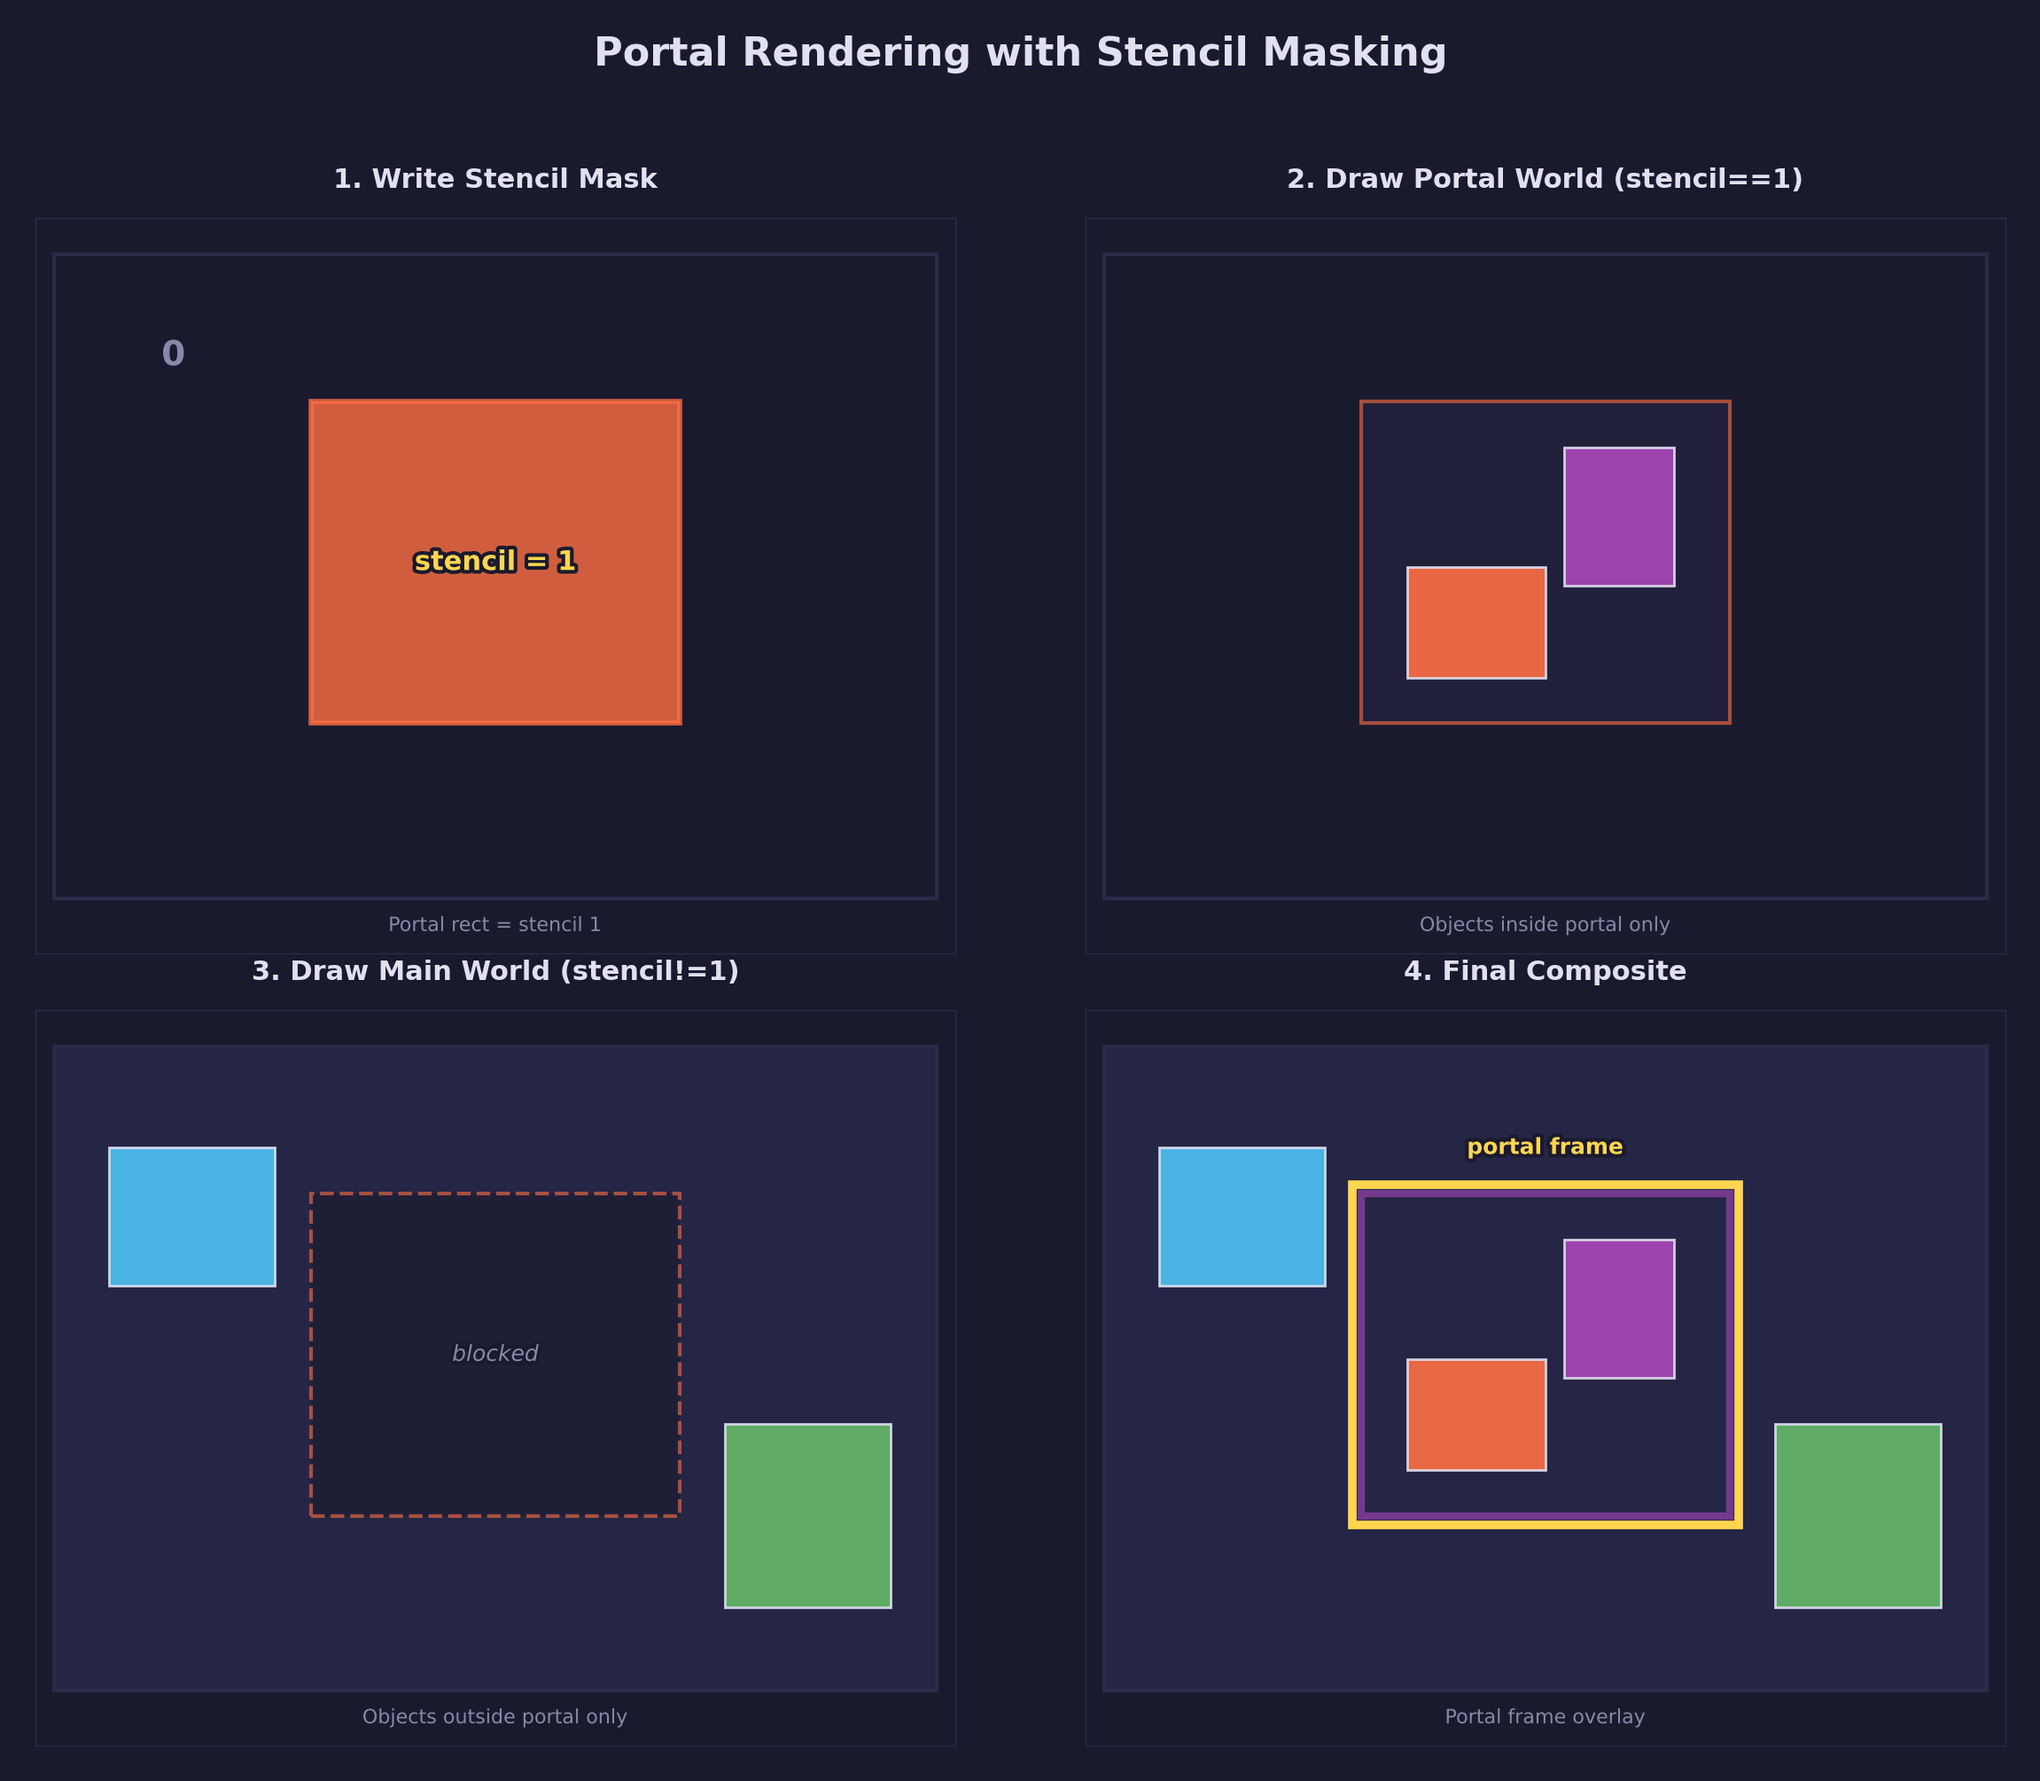
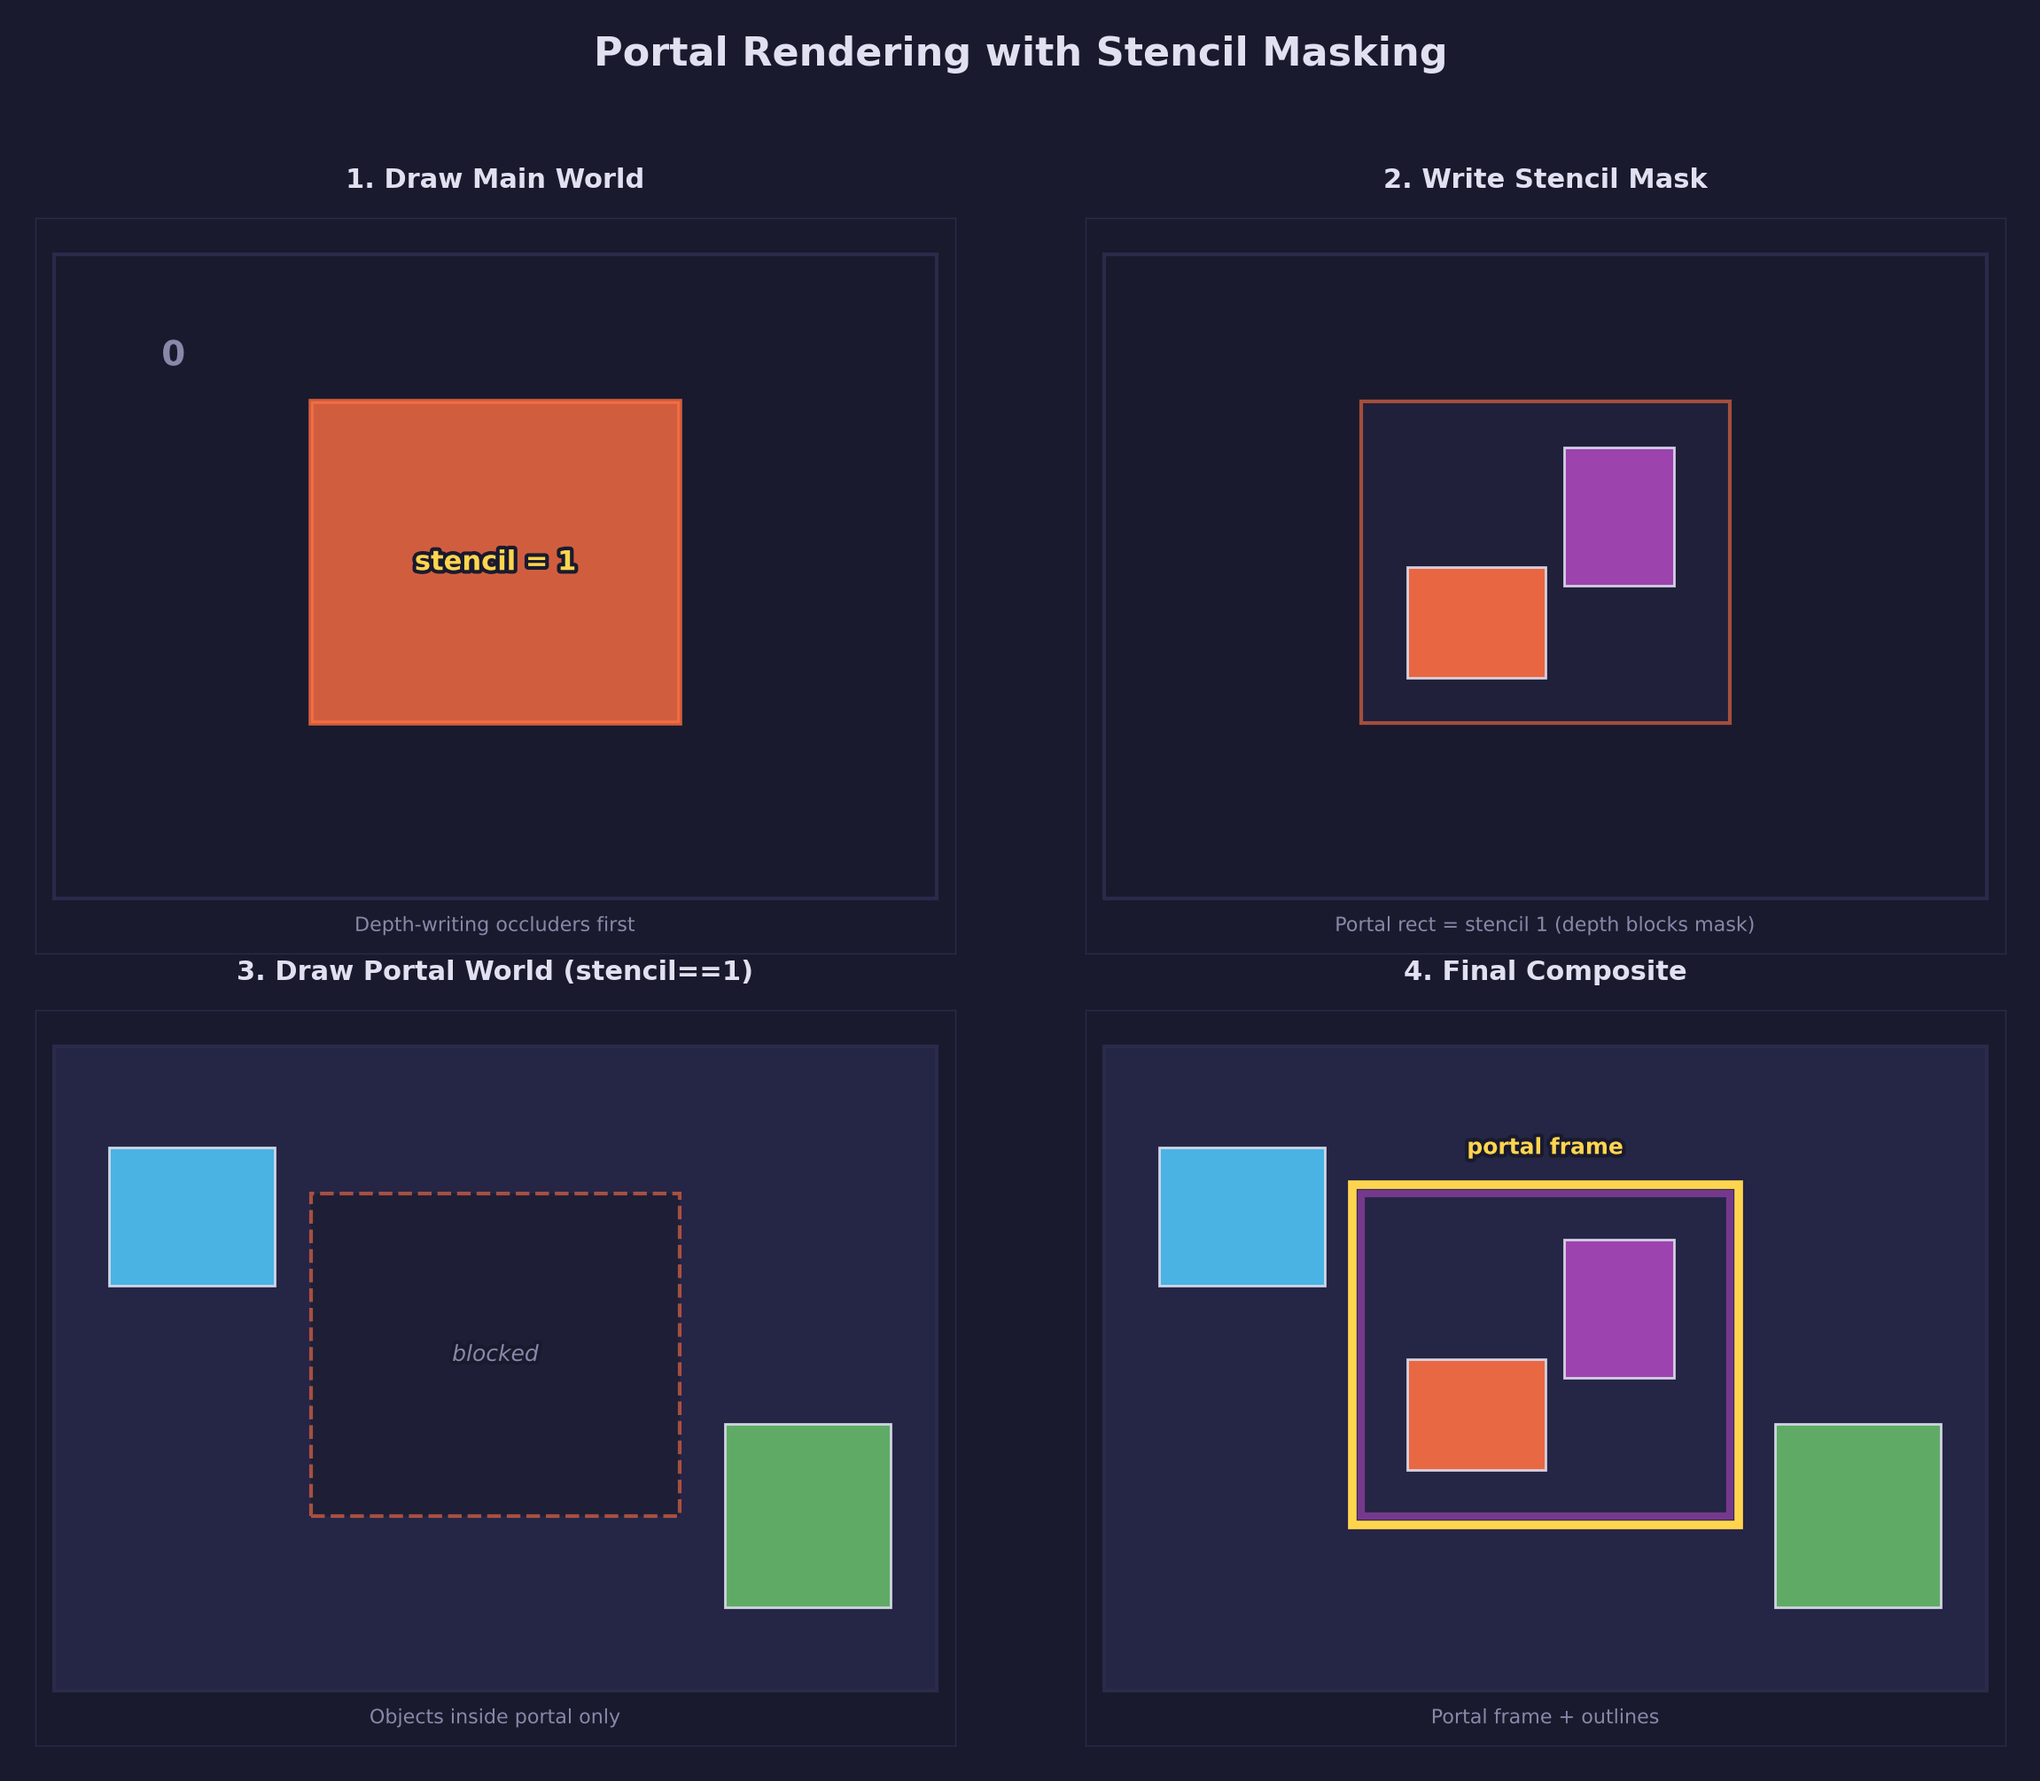
Address PR feedback: PLAN.md phase order, struct size, diagram text, README logical model
- Reorder PLAN.md Pass 2 phases: main world first, then mask (matches main.c)
- Fix SceneFragUniforms size comment: 80 → 88 bytes
- Update stencil buffer concept diagram docstring/footer for format probing
- Fix portal technique diagram panel labels to show correct draw order
- Clarify README stencil pipeline as logical model, not guaranteed HW order

diff --git a/scripts/forge_diagrams/gpu_diagrams.py b/scripts/forge_diagrams/gpu_diagrams.py
@@ -15951,7 +15951,7 @@ def diagram_binding_comparison():
 
 
 def diagram_stencil_buffer_concept():
-    """Three framebuffer attachments: Color, Depth, Stencil with D24S8 packing."""
+    """Three framebuffer attachments: color, depth, and stencil in a shared depth-stencil texture."""
     fig, axes = plt.subplots(1, 3, figsize=(14, 5), facecolor=STYLE["bg"])
     stroke = [pe.withStroke(linewidth=3, foreground=STYLE["bg"])]
 
@@ -16147,8 +16147,8 @@ def diagram_stencil_buffer_concept():
     fig.text(
         0.65,
         0.02,
-        "Depth + Stencil share one texture: D24_UNORM_S8_UINT  "
-        "(24-bit depth + 8-bit stencil)",
+        "Depth + Stencil share one texture: D24_UNORM_S8_UINT or "
+        "D32_FLOAT_S8_UINT (platform-dependent depth + 8-bit stencil)",
         color=STYLE["warn"],
         fontsize=10,
         fontweight="bold",
@@ -16330,10 +16330,10 @@ def diagram_portal_technique():
     stroke = [pe.withStroke(linewidth=3, foreground=STYLE["bg"])]
 
     panel_info = [
-        ("1. Write Stencil Mask", "Portal rect = stencil 1"),
-        ("2. Draw Portal World (stencil==1)", "Objects inside portal only"),
-        ("3. Draw Main World (stencil!=1)", "Objects outside portal only"),
-        ("4. Final Composite", "Portal frame overlay"),
+        ("1. Draw Main World", "Depth-writing occluders first"),
+        ("2. Write Stencil Mask", "Portal rect = stencil 1 (depth blocks mask)"),
+        ("3. Draw Portal World (stencil==1)", "Objects inside portal only"),
+        ("4. Final Composite", "Portal frame + outlines"),
     ]
 
     for idx, ax in enumerate(axes.flat):

diff --git a/lessons/gpu/34-stencil-testing/README.md b/lessons/gpu/34-stencil-testing/README.md
@@ -9,7 +9,7 @@
 
 - What the stencil buffer is: an 8-bit per-pixel integer alongside the depth buffer
 - How to configure the `D24_UNORM_S8_UINT` depth-stencil format (and why the `_S8_UINT` suffix matters)
-- Where stencil testing sits in the fragment pipeline: after fragment shading, before depth testing
+- The logical stencil/depth flow used to reason about stencil behavior
 - All 8 stencil operations and 8 comparison functions available in SDL GPU
 - The portal masking technique: render a different world through a stencil-masked opening
 - The object outline technique: stencil silhouette expansion for colored borders
@@ -86,11 +86,15 @@ this lesson does with the V key toggle.
 
 ![Stencil test pipeline](assets/stencil_test_pipeline.png)
 
-The stencil test occurs between fragment shading and depth testing. After a
-fragment shader produces its output, the GPU evaluates the stencil condition
-before checking depth:
+For reasoning about stencil behavior, we use this logical order:
 
 **Fragment Shader** -> **Stencil Test** -> **Depth Test** -> **Color Write**
+
+Modern GPUs may optimize by running stencil and depth tests before the fragment
+shader when legal (for example, when the shader does not write custom depth
+values). Treat this sequence as the conceptual model for understanding how
+`fail_op`, `depth_fail_op`, and `pass_op` apply — not the guaranteed hardware
+execution order.
 
 The comparison evaluates:
 

diff --git a/lessons/gpu/34-stencil-testing/PLAN.md b/lessons/gpu/34-stencil-testing/PLAN.md
@@ -50,9 +50,9 @@ Pass 1: Shadow map (depth-only, D32_FLOAT, 2048x2048)
   - Draw main world cubes only
 
 Pass 2: Main scene (swapchain color + D24_UNORM_S8_UINT depth-stencil)
-  Phase A: Portal mask write    (stencil=1, no color, no depth write)
-  Phase B: Portal world         (stencil==1, alternate objects + tint)
-  Phase C: Main world + grid    (stencil!=1, cubes + outlined cubes + grid)
+  Phase A: Main world + grid    (depth-writing occluders first)
+  Phase B: Portal mask write    (stencil=1, no color, no depth write)
+  Phase C: Portal world         (stencil==1, alternate objects + tint)
   Phase D: Portal frame         (stencil ALWAYS, visible frame mesh)
   Phase E: Outline pass         (stencil REPLACE then NOT_EQUAL for outlines)
 
@@ -116,7 +116,7 @@ typedef struct SceneFragUniforms {
     float specular_str;
     float tint[3];          /* additive tint for portal world */
     float _pad0;
-} SceneFragUniforms;                                /* 80 bytes */
+} SceneFragUniforms;                                /* 88 bytes */
 
 typedef struct GridVertUniforms {
     mat4 vp;        /* view-projection */
